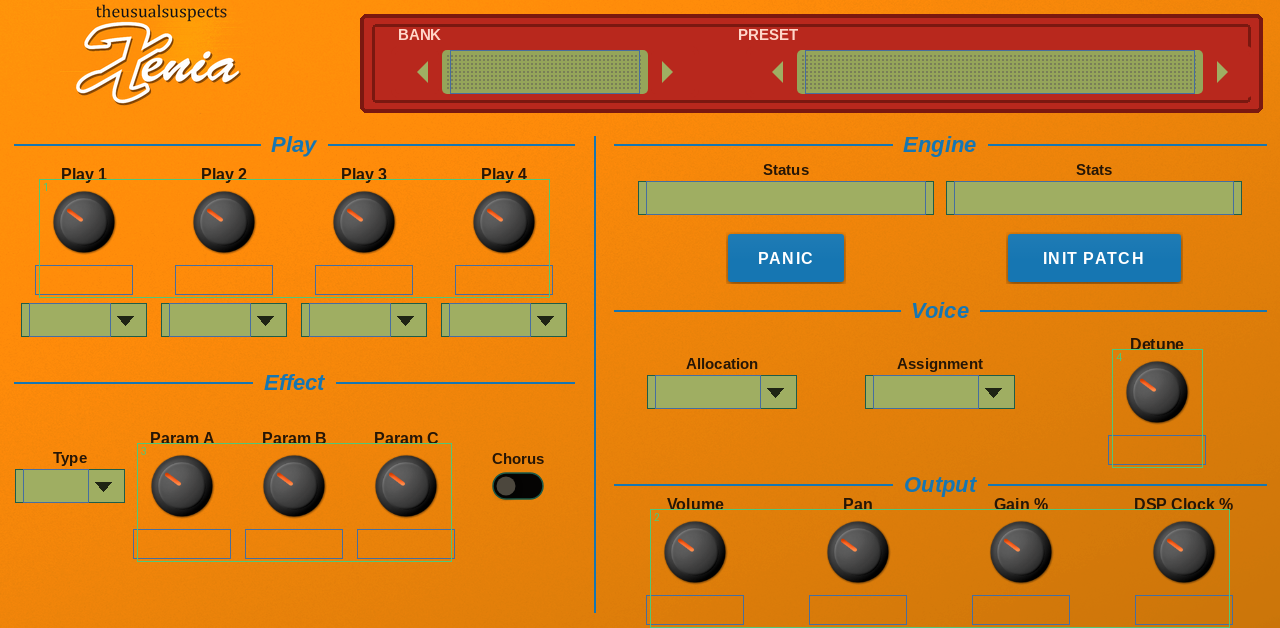
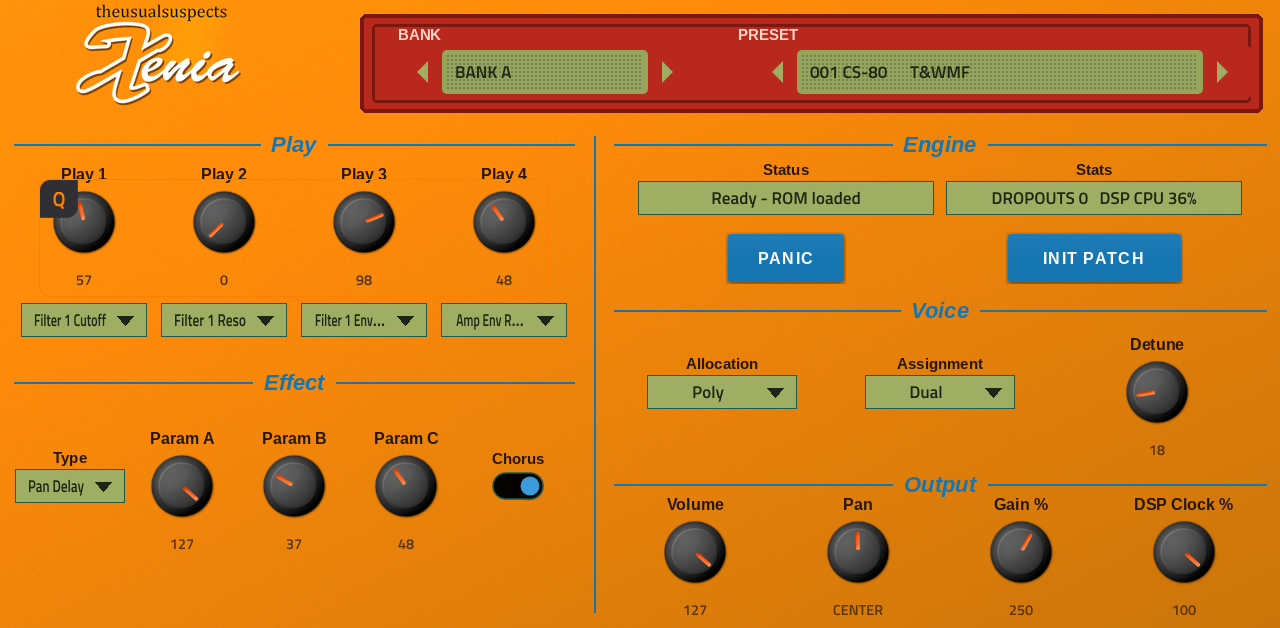
Docs: real Live III screenshot of the PLAY page as the README picture
Claude-Session: https://claude.ai/code/session_01NnBRfCftY3vdpsy8azUhpq

diff --git a/README.md b/README.md
@@ -4,7 +4,7 @@ An emulation of the Waldorf Microwave XT wavetable synthesizer as a native VST2 
 aarch64, MPC OS 3.x), with a touchscreen skin in the look of gearmulator's Xenia plugin and Q-Link control on every page. It runs the original XT firmware on
 [gearmulator](https://github.com/dsp56300/gearmulator)'s 68k and DSP56300 emulators ("Xenia" is gearmulator's name for its Microwave XT emulation).
 
-![The OSC page (skin preview)](docs/screenshots/xenia-osc.png)
+![The PLAY page on an MPC Live III](docs/screenshots/xenia-play.png)
 
 **Status: 0.1.0, tested on one device.** Run on an MPC Live III (MPC OS 3.9.1.2) on 2026-10-27 with a real Microwave XT ROM: it loads, boots in about half a second, plays,
 changes bank and preset (steppers, BANKS tiles, data wheel), all pages and Q-Link sub-pages and the option popups work, and the DSP thread uses about 35% of one core with no
